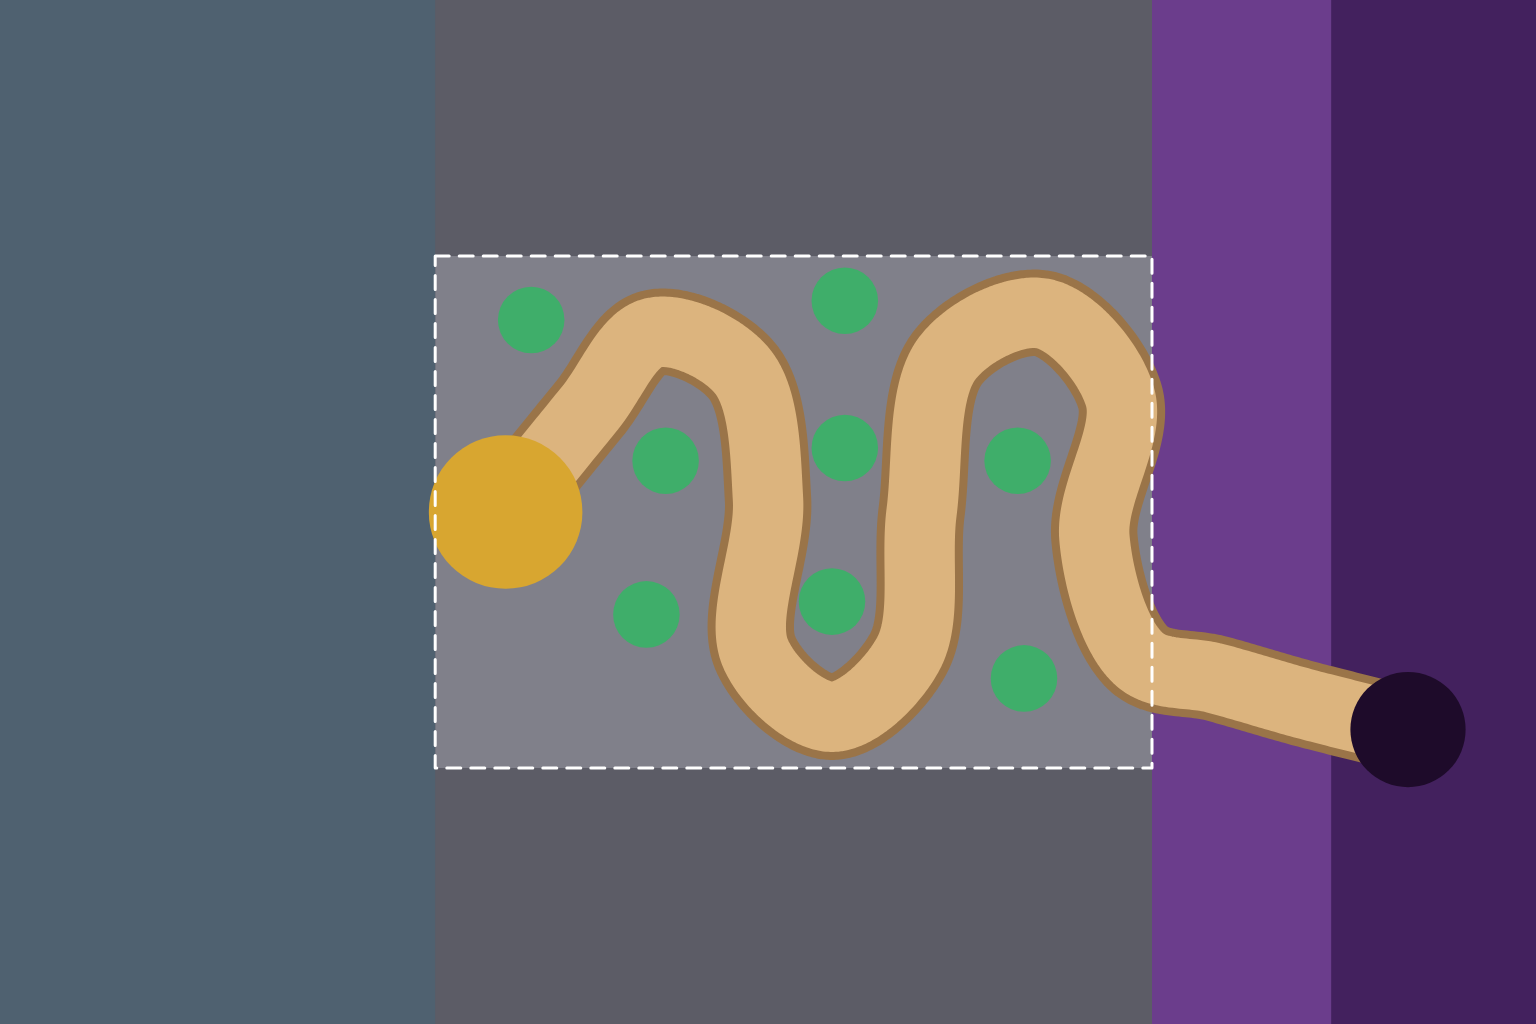
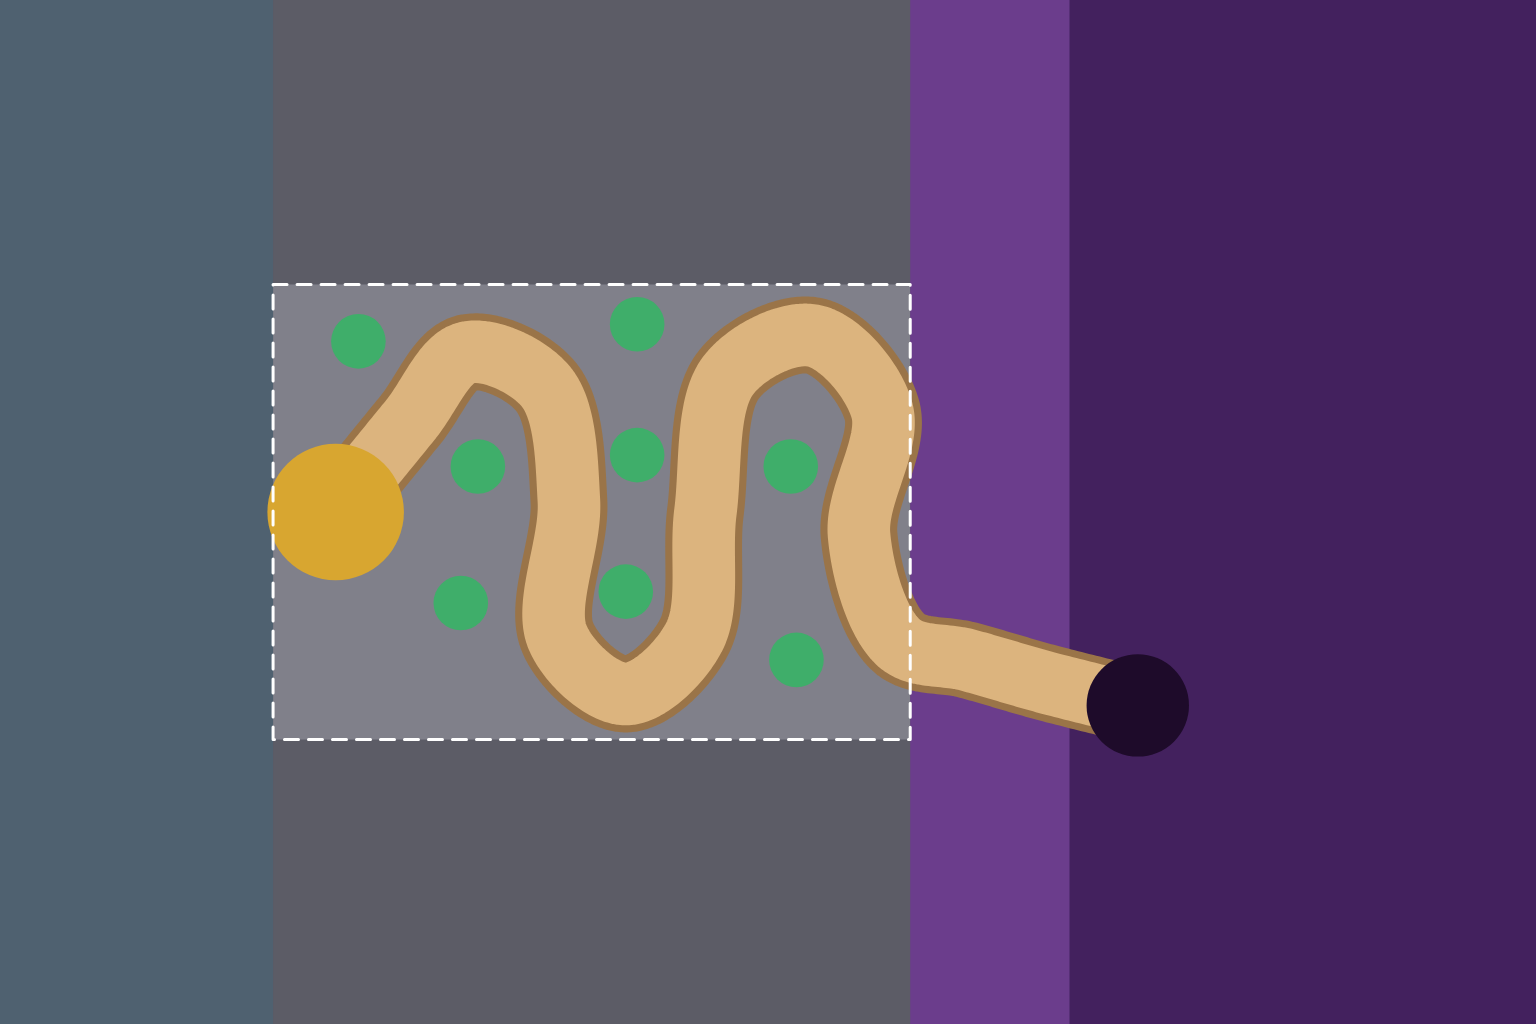
Dynamo Defense paint guides: HUD compose, landscape overflow, tighter clearings
dev/towerdefense.html?compose=<painting> shows a painting and the real sprites
under the real status rows and shell HUD with the single-road field fit, in
portrait or turned landscape, framing any uncovered screen in red. The guide
script captures these per device. Landscape gets its own larger paint box
(PAINT_BOXES), since wide screens show ~80 units of hive. Guide clearings shrink
to just past a tower's footprint, and the brief asks for hive creep inside the
top of the playfield and a road that ends at the apron.

diff --git a/dev/td-paint-guide.ts b/dev/td-paint-guide.ts
@@ -7,7 +7,7 @@ import { KINDS, type Element, type Kind, type TowerKind } from '../src/games/tow
 import type { EnemyView, TdSnapshot } from '../src/games/towerdefense/sim/types';
 import { AlienLayer, type View } from '../src/games/towerdefense/render/aliens/layer';
 import { Machinery } from '../src/games/towerdefense/render/machinery';
-import { FLYER_SPAWNS, SPAWN_Y, FIELD_H, FIELD_W, PAD_R, PAINT_BOX, paintSize, ROAD, ROAD_HALF_WIDTH, ROAD_PADS, SHOULDER, HIVE_MOUTH, TURRET, TURRET_R, worldToPaint, type PaintOrientation, type Pt } from '../src/games/towerdefense/sim/road';
+import { FLYER_SPAWNS, SPAWN_Y, FIELD_H, FIELD_W, PAD_R, PAINT_BOXES, paintSize, ROAD, ROAD_HALF_WIDTH, ROAD_PADS, SHOULDER, HIVE_MOUTH, TURRET, TURRET_R, worldToPaint, type PaintOrientation, type Pt } from '../src/games/towerdefense/sim/road';
 
 export const GUIDE_COLORS = {
   sides: '#5c5c66', field: '#80808a', hive: '#6b3d8c', deepHive: '#43215e', yard: '#4f6170',
@@ -27,7 +27,7 @@ export async function drawGuide(canvas: HTMLCanvasElement, o: PaintOrientation, 
   };
   const path = (pts: readonly Pt[]) => { g.beginPath(); pts.forEach((p, i) => { const s = P(p); i ? g.lineTo(s.x, s.y) : g.moveTo(s.x, s.y); }); };
   const circle = (p: Pt, r: number) => { const s = P(p); g.beginPath(); g.arc(s.x, s.y, r * k, 0, Math.PI * 2); };
-  const { x0, y0, x1, y1 } = PAINT_BOX;
+  const { x0, y0, x1, y1 } = PAINT_BOXES[o];
   const safe = () => {
     const a = P({ x: 0, y: 0 }), b = P({ x: FIELD_W, y: FIELD_H });
     g.strokeStyle = GUIDE_COLORS.safe; g.lineWidth = 3; g.setLineDash([14, 10]);
@@ -37,7 +37,7 @@ export async function drawGuide(canvas: HTMLCanvasElement, o: PaintOrientation, 
   if (check) {
     const img = new Image(); img.src = check; await img.decode();
     g.drawImage(img, 0, 0, w, h);
-    if (mock) { await drawMock(g, o, long); return; }
+    if (mock) { await drawMock(g, p => worldToPaint(o, p, long), paintSize(o, long).pxPerUnit); return; }
     // Road edges and shoulder edges, offset along the sampled normals.
     const offset = (d: number) => ROAD.map((p, i) => {
       const a = ROAD[Math.max(0, i - 1)], b = ROAD[Math.min(ROAD.length - 1, i + 1)], len = Math.hypot(b.x - a.x, b.y - a.y) || 1;
@@ -69,8 +69,8 @@ export async function drawGuide(canvas: HTMLCanvasElement, o: PaintOrientation, 
   }
   g.fillStyle = GUIDE_COLORS.mouth; circle(HIVE_MOUTH, 9); g.fill();
   g.fillStyle = GUIDE_COLORS.apron; circle(TURRET, TURRET_R + 1); g.fill();
-  g.fillStyle = GUIDE_COLORS.pad; for (const p of ROAD_PADS) { circle(p, PAD_R + 1); g.fill(); }
-  if (mock) { await drawMock(g, o, long); return; }
+  g.fillStyle = GUIDE_COLORS.pad; for (const p of ROAD_PADS) { circle(p, PAD_R + 0.6); g.fill(); }
+  if (mock) { await drawMock(g, p => worldToPaint(o, p, long), paintSize(o, long).pxPerUnit); return; }
   safe();
 }
 
@@ -79,11 +79,9 @@ export async function drawGuide(canvas: HTMLCanvasElement, o: PaintOrientation, 
  * game draws them in both orientations. Positions are converted to image pixels first, so one view serves both.
  * Never baked into the painting.
  */
-export async function drawMock(g: CanvasRenderingContext2D, o: PaintOrientation, long: number) {
-  const k = paintSize(o, long).pxPerUnit;
-  const px = (p: Pt) => worldToPaint(o, p, long);
-  const at = (p: Pt): View => ({ X: () => px(p).x, Y: () => px(p).y, k, dpr: 1 });
-  const flat: View = { X: x => x, Y: y => y, k, dpr: 1 }; // aliens get image-pixel positions directly
+export async function drawMock(g: CanvasRenderingContext2D, px: (p: Pt) => Pt, k: number, dpr = 1) {
+  const at = (p: Pt): View => ({ X: () => px(p).x, Y: () => px(p).y, k, dpr });
+  const flat: View = { X: x => x, Y: y => y, k, dpr }; // aliens get image-pixel positions directly
   const base = import.meta.env.BASE_URL;
   const machinery = new Machinery(base), aliens = new AlienLayer(base);
   await Promise.all([machinery.loaded, aliens.loaded]);
@@ -139,4 +137,37 @@ export async function drawMock(g: CanvasRenderingContext2D, o: PaintOrientation,
   for (const [pad, kind, level] of towers) machinery.tower(g, { pad: 0, kind, level, angle: aimAt(ROAD_PADS[pad]), charge: 1, firedAt: -9 }, at(ROAD_PADS[pad]), s);
   machinery.base(g, at(TURRET), s, { crankRevs: 0.3 } as BikeState);
   g.restore();
+}
+
+/**
+ * A painting composed into a live viewport: the field fits between the status rows (`top`) and the HUD (`bottom`)
+ * the way the single-road layout will, the painting's overflow fills the rest, and the real sprites sit on top.
+ * Landscape turns the field (turret left, hive right). A portrait painting in a landscape viewport is turned with
+ * it, so its light falls sideways: fine for checking layout, not lighting.
+ */
+export async function drawCompose(canvas: HTMLCanvasElement, bg: string, W: number, H: number, top: number, bottom: number, dpr: number, turned: boolean, painting: PaintOrientation) {
+  const rotate = turned;
+  canvas.width = Math.round(W * dpr); canvas.height = Math.round(H * dpr);
+  const g = canvas.getContext('2d')!; g.setTransform(dpr, 0, 0, dpr, 0, 0);
+  const pad = 12, area = { x: pad, y: top, w: W - 2 * pad, h: bottom - pad - top };
+  const k = rotate ? Math.min(area.h / FIELD_W, area.w / FIELD_H) : Math.min(area.w / FIELD_W, area.h / FIELD_H);
+  const ox = rotate ? area.x : area.x + (area.w - FIELD_W * k) / 2;
+  const oy = rotate ? area.y + (area.h - FIELD_W * k) / 2 : area.y + area.h - FIELD_H * k;
+  const P = (p: Pt) => rotate ? { x: ox + (FIELD_H - p.y) * k, y: oy + p.x * k } : { x: ox + p.x * k, y: oy + p.y * k };
+  const img = new Image(); img.src = bg; await img.decode();
+  const { x0, y0, x1, y1 } = PAINT_BOXES[painting], a = P({ x: x0, y: y0 }), b = P({ x: x1, y: y1 });
+  g.fillStyle = '#0a0e16'; g.fillRect(0, 0, W, H);
+  g.save();
+  if (painting === 'landscape') { const c = P({ x: x0, y: y1 }); g.drawImage(img, c.x, c.y, (y1 - y0) * k, (x1 - x0) * k); }
+  else {
+    // The portrait image's x runs along world x and its y along world y; P's rotation carries both.
+    g.translate(a.x, a.y); if (rotate) g.transform(0, 1, -1, 0, 0, 0);
+    g.drawImage(img, 0, 0, (x1 - x0) * k, (y1 - y0) * k);
+  }
+  g.restore();
+  await drawMock(g, P, k, dpr);
+  // Where the painting runs out, if it does: a red frame flags uncovered screen.
+  const l = Math.min(a.x, b.x), t = Math.min(a.y, b.y), r = Math.max(a.x, b.x), btm = Math.max(a.y, b.y);
+  if (l > 0 || t > 0 || r < W || btm < H) { g.strokeStyle = '#ff3030'; g.lineWidth = 4; g.strokeRect(l, t, r - l, btm - t); }
+  return k;
 }

diff --git a/src/games/towerdefense/sim/road.ts b/src/games/towerdefense/sim/road.ts
@@ -76,19 +76,25 @@ export function walkedLength(line: readonly Pt[] = ROAD): number {
 }
 
 /**
- * Paint-guide registration. Both paintings cover the same world box; portrait maps it upright, landscape turns it
- * 90° so the spawn edge is on the right and the turret on the left. Image pixels per world unit = PAINT_PX / box.
+ * Paint-guide registration. Each painting covers its own world box, the field plus overflow for the screens it serves.
+ * Portrait maps its box upright. Landscape turns 90° (spawn edge right, turret left) and needs far more hive overflow,
+ * because a wide screen shows ~80 units beyond the spawn edge. Image pixels per world unit = long side / box.
  */
-export const PAINT_BOX = { x0: -40, y0: -60, x1: 120, y1: 180 } as const;
 export type PaintOrientation = 'portrait' | 'landscape';
+export const PAINT_BOXES = {
+  portrait: { x0: -40, y0: -60, x1: 120, y1: 180 },
+  landscape: { x0: -50, y0: -110, x1: 130, y1: 160 },
+} as const satisfies Record<PaintOrientation, { x0: number; y0: number; x1: number; y1: number }>;
+/** The portrait box, under its original name. */
+export const PAINT_BOX = PAINT_BOXES.portrait;
 export function paintSize(o: PaintOrientation, long = 1536) {
-  const w = PAINT_BOX.x1 - PAINT_BOX.x0, h = PAINT_BOX.y1 - PAINT_BOX.y0, s = long / Math.max(w, h);
+  const b = PAINT_BOXES[o], w = b.x1 - b.x0, h = b.y1 - b.y0, s = long / Math.max(w, h);
   return o === 'portrait' ? { w: w * s, h: h * s, pxPerUnit: s } : { w: h * s, h: w * s, pxPerUnit: s };
 }
 /** World point to image pixel for a painting of the given size. */
 export function worldToPaint(o: PaintOrientation, p: Pt, long = 1536): Pt {
-  const { pxPerUnit: s } = paintSize(o, long);
+  const { pxPerUnit: s } = paintSize(o, long), b = PAINT_BOXES[o];
   return o === 'portrait'
-    ? { x: (p.x - PAINT_BOX.x0) * s, y: (p.y - PAINT_BOX.y0) * s }
-    : { x: (PAINT_BOX.y1 - p.y) * s, y: (p.x - PAINT_BOX.x0) * s };
+    ? { x: (p.x - b.x0) * s, y: (p.y - b.y0) * s }
+    : { x: (b.y1 - p.y) * s, y: (p.x - b.x0) * s };
 }

diff --git a/dev/towerdefense.ts b/dev/towerdefense.ts
@@ -32,6 +32,18 @@ const observer = new ResizeObserver(resize); if (useHud) observer.observe(probe)
 window.addEventListener('resize', resize); resize();
 await r.ready?.();
 paint();
+// ?compose=/path/painting.webp: hide the game canvas and show the single-road painting with real sprites under the
+// real status rows and shell HUD, laid out as the new field will be.
+const composeBg = q.get('compose');
+if (composeBg) {
+  const { drawCompose } = await import('./td-paint-guide');
+  const gameCanvas = app.querySelector('canvas')!; gameCanvas.style.opacity = '0';
+  const own = document.createElement('canvas'); own.style.cssText = 'position:absolute;inset:0;width:100%;height:100%;pointer-events:none';
+  app.prepend(own);
+  const L = layout(innerWidth, innerHeight, hudInset(), useHud);
+  const k = await drawCompose(own, composeBg, innerWidth, innerHeight, L.current.y + L.current.h + 12, L.UH, Math.min(2, devicePixelRatio || 1), innerWidth > innerHeight, composeBg.includes('landscape') ? 'landscape' : 'portrait');
+  document.body.dataset.compose = JSON.stringify({ k, hud: hudInset(), top: L.current.y + L.current.h + 12 });
+}
 let raf = 0;
 if (q.get('manual') !== '1') {
   let last = performance.now();

diff --git a/src/games/towerdefense/test/road.test.ts b/src/games/towerdefense/test/road.test.ts
@@ -20,7 +20,8 @@ describe('single road layout', () => {
     expect(paintSize('landscape')).toMatchObject({ w: 1536, h: 1024 });
     const tp = worldToPaint('portrait', TURRET), tl = worldToPaint('landscape', TURRET);
     expect(tp.x).toBeCloseTo(512); expect(tl.y).toBeCloseTo(512);
-    // Landscape: spawn edge (y = 0) right of the turret.
+    // Landscape: spawn edge (y = 0) right of the turret, with more hive overflow than behind the turret.
     expect(worldToPaint('landscape', { x: 40, y: 0 }).x).toBeGreaterThan(tl.x);
+    expect(1536 - worldToPaint('landscape', { x: 40, y: 0 }).x).toBeGreaterThan(worldToPaint('landscape', { x: 40, y: FIELD_H }).x);
   });
 });

diff --git a/docs/towerdefense/paint-guide/PROMPT.md b/docs/towerdefense/paint-guide/PROMPT.md
@@ -55,8 +55,12 @@ At 1024×1536 the scale is 6.4 px per world unit.
   ±6 px of the guide's tan edge along the whole road. The rubble shoulder stays within the brown edge, plus at most 6 px.
 - **Road surface:** level and walkable along the whole length. No boulders, pipes, pits or debris on it inside the
   dashed rectangle. Small pebbles and wheel ruts are fine.
-- **Clearings and apron:** flat, uncluttered ground at least the size of each circle. Paint each as a slightly
-  levelled, compacted patch, so a building there looks intended. **No structures, foundations, hex marks or pads.**
+- **Clearings:** a slightly levelled, compacted patch **the size of the green circle and no bigger**: about 31 px
+  radius at 1024×1536, just past a tower's footprint. Give it a defined rim that fades to rock within about 4 px,
+  with no soft halo beyond. Oversized clearings leave towers sitting in rings of bare ground.
+  **No structures, foundations, hex marks or pads.**
+- **Apron:** flat, uncluttered ground the size of the gold circle. **The road ends at the apron.** No trail,
+  track or worn path continues past the turret, because it reads as the enemies' route going on.
 - **Do not paint:** the turret, towers, aliens, cables or wires, text, numbers, UI, the dashed line, vignettes or borders.
   The game draws all of these itself. To judge the painting with them, use the review mocks (see Process), which
   composite the real sprites over your painting without changing it.
@@ -67,8 +71,11 @@ At 1024×1536 the scale is 6.4 px per world unit.
 
 ## Set pieces (portrait coordinates at 1024×1536)
 
-- Hive mouth, near (730, 128): an organic burrow or cave mouth swallowing the road, ringed with creep. Creep thins out
-  toward the dashed rectangle, and only light creep enters the top of the playfield.
+- Hive mouth, near (730, 128): an organic burrow or cave mouth swallowing the road, ringed with creep.
+- **The hive reaches into the playfield.** On iPads the status rows cover everything above the dashed rectangle,
+  so the enemy side must read inside it. Let creep tendrils, violet staining and a few small growths come
+  10–15 world units (64–96 px) into the top of the playfield, around the first crossing and the spawn run,
+  fading out before the second crossing. Keep creep off the road surface and the clearings.
 - Open ground at the bottom right of the playfield, about (600–760, 1000–1100), and left of the middle crossing:
   good places for one or two dramatic but low features (a fissure, a half-buried machine hulk, a crater),
   away from clearings and the road.
@@ -81,7 +88,7 @@ Work on a branch from `td-single-lane` and open a PR into it. Each round goes in
 `docs/towerdefense/paint-guide/rounds/<orientation>-<n>/` with:
 1. `painting.png`: the 1024×1536 (or 1536×1024) generation, before upscaling.
 2. A copy of the upscaled production file, also at `public/td/environment/road/<orientation>.webp`:
-   2.5× (2560×3840 or 3840×2560), WebP quality about 85.
+   portrait 2.5× (2560×3840), landscape 3× (4608×3072, because its box is larger), WebP quality about 85.
 3. `check.png`: run `npm run dev -- --port 5203` and then `node scripts/td-paint-guide.mjs`
    (set `CHROMIUM_PATH` if Chromium is not at `/usr/bin/chromium`). The script writes
    these files in `docs/towerdefense/paint-guide/`. Copy them into the round folder:
@@ -90,16 +97,20 @@ Work on a branch from `td-single-lane` and open a PR into it. Each round goes in
    - `<orientation>-mock.png`: the game's real outpost, four towers, a mix of aliens on the road and Gliders on
      their flight lines, drawn over your painting at true size.
    - `<orientation>-mock-zoom.png`: the same at about in-game iPad resolution, cropped to the lower field.
+   - `<orientation>-hud-<device>.png`: the painting and sprites in real iPad, iPad Pro and phone viewports, under
+     the game's real status rows and shell HUD. A red frame means the painting runs out before the screen edge,
+     which must never happen.
 4. `NOTES.md`, 15 lines at most: what changed this round, where the road misses the overlay (if anywhere),
    the readability review below, and anything you are unsure about.
 
-**Readability review** (answer in NOTES.md from the two mock images, and fix problems before stopping):
+**Readability review** (answer in NOTES.md from the mock and HUD images, and fix problems before stopping):
 - Every alien reads against the road and the rock at a glance: blue skitters and Gliders, red warriors and rams,
   purple bulwark and broodmother, and the gold Tyrant. Say which, if any, get lost.
 - Towers sit naturally on their clearings, and empty clearings read as "build here" with the game's hex marker.
 - The outpost sits on its apron and doesn't look pasted onto a busy texture.
 - No painted feature competes with sprites for attention: bright spots, high-contrast clutter next to the road,
   or shapes that look like units.
+- In the HUD images, the hive side reads on every device, and nothing important hides under the status rows or HUD.
 
 **Portrait rounds:**
 - Round 1 paints from the guide and the style references.
@@ -111,9 +122,12 @@ Work on a branch from `td-single-lane` and open a PR into it. Each round goes in
 
 **Landscape round** (after approval):
 - Use `landscape-guide.png` for the layout and the approved portrait painting for materials and landmarks.
+  The landscape box is larger than the portrait one (`PAINT_BOXES` in `road.ts`): wide screens show about 80 units
+  of hive beyond the spawn edge, so paint a broad, dramatic hive region on the right. It is the biggest
+  overflow area and the most visible.
 - It is the same place seen from a different heading: every landmark (hive mouth, set pieces, salvage yard,
   distinctive rocks near the road) sits at the same world position. Rotate the approved portrait 90° clockwise
-  as a positional reference.
+  as a positional reference; it covers less area than the landscape box, so extend outward from it.
 - Relight it so the key light again comes from the **top of the new frame**. Do not just rotate the portrait
   painting; its shadows would then fall sideways.
 - Same rules, check and round folder (`landscape-1/`, …). Stop for feedback after each landscape round.
@@ -130,4 +144,4 @@ Work on a branch from `td-single-lane` and open a PR into it. Each round goes in
   a clean overlay check, review mocks with no readability problems, and its round history in
   `docs/towerdefense/paint-guide/rounds/`.
 - `public/td/environment/road/NOTES.md` (40 lines at most) records the files, sizes, the registration
-  (`PAINT_BOX` and `worldToPaint` in `road.ts`), and how they were made.
+  (`PAINT_BOXES` and `worldToPaint` in `road.ts`), and how they were made.
